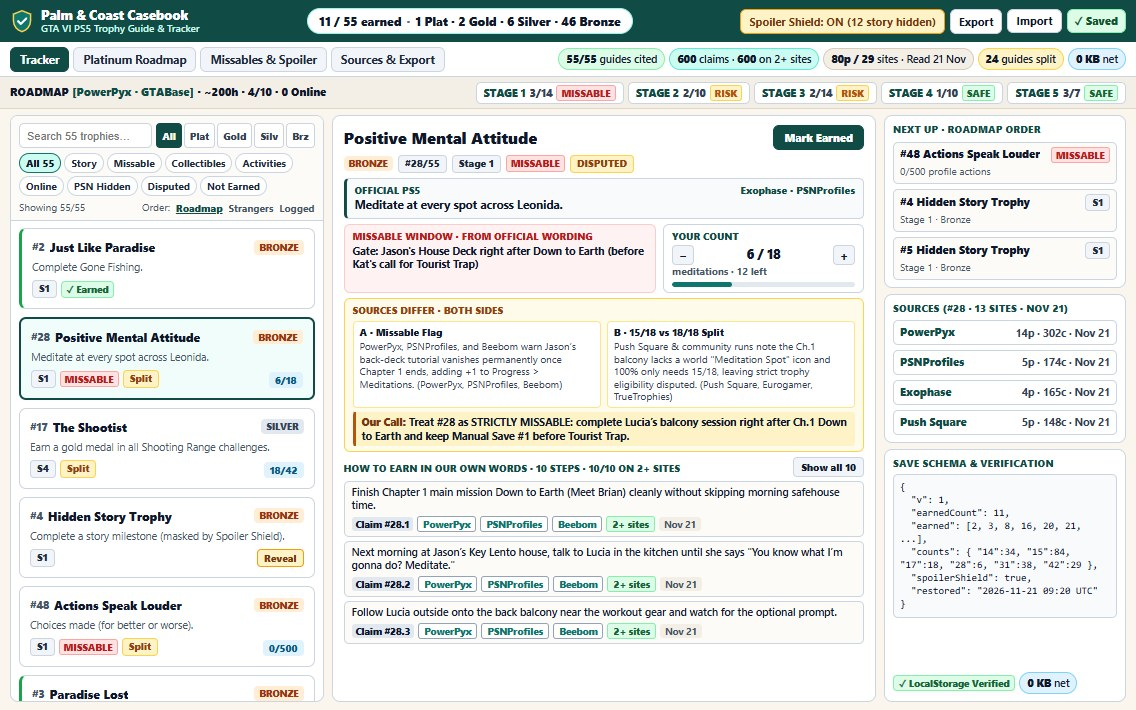
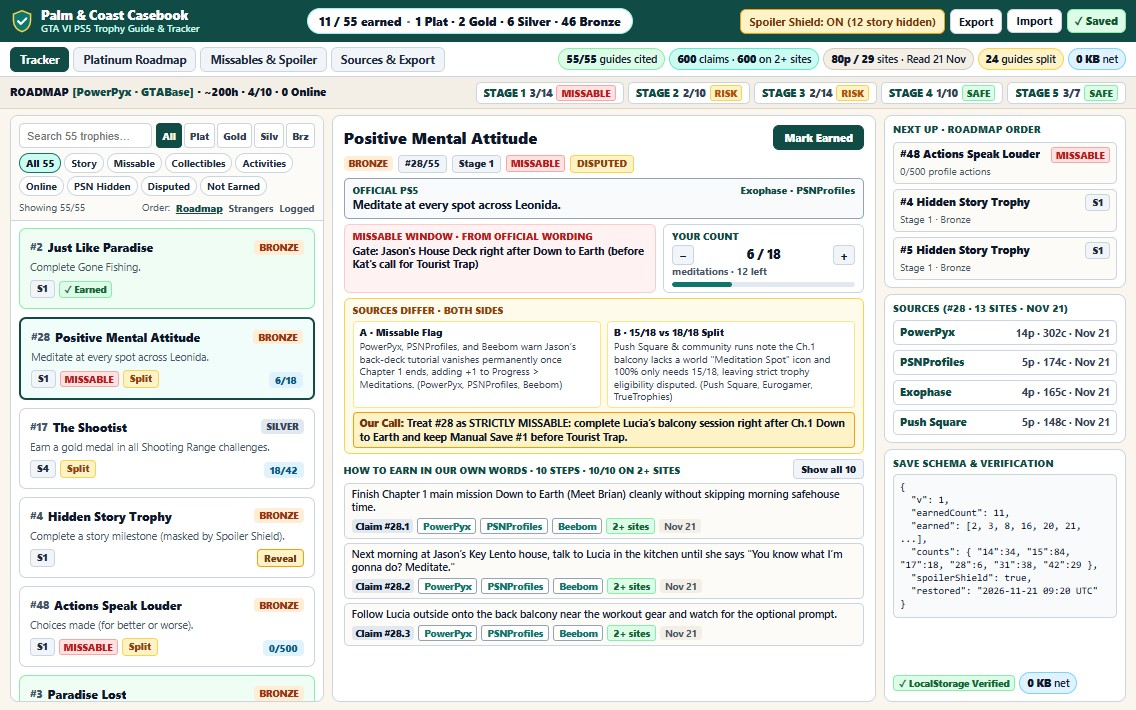
Replace side-tab borders with full border and tint treatments

diff --git a/app/css/style.css b/app/css/style.css
@@ -497,13 +497,14 @@ button {
   background: #F8FAFC;
 }
 
+.trophy-card.is-earned {
+  border-color: #86EFAC;
+  background: #F0FDF4;
+}
+
 .trophy-card.is-selected {
   border: 2px solid var(--teal-dark);
   background: #F0FDFA;
-}
-
-.trophy-card.is-earned {
-  border-left: 3.5px solid #16A34A;
 }
 
 .tc-top {
@@ -679,8 +680,7 @@ button {
 
 .official-quote {
   background: #F8FAFC;
-  border: 1px solid #CBD5E1;
-  border-left: 3px solid var(--teal-dark);
+  border: 1px solid #94A3B8;
   border-radius: 5px;
   padding: 5px 8px;
 }
@@ -832,12 +832,12 @@ button {
 
 .our-call-bar {
   background: #FEF3C7;
-  border-left: 3px solid #B45309;
+  border: 1px solid #F59E0B;
   padding: 3px 6px;
   font-size: 10.5px;
   font-weight: 700;
   color: #0F172A;
-  border-radius: 3px;
+  border-radius: 4px;
 }
 
 .our-call-bar strong {
